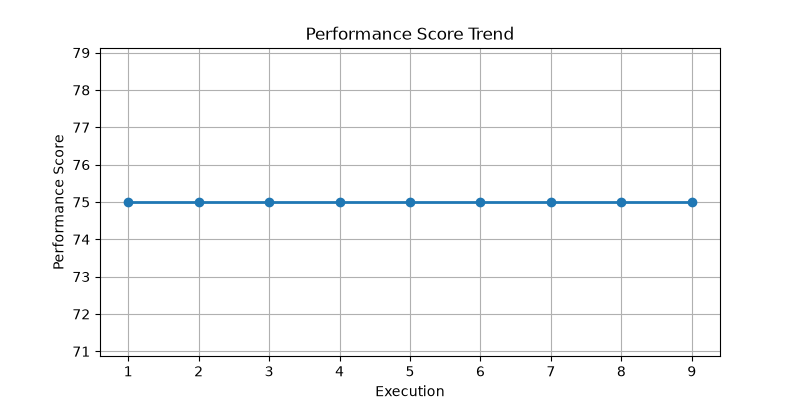
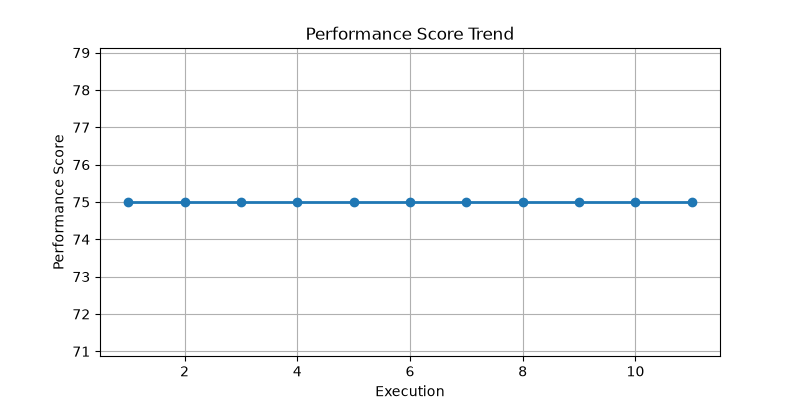
Sprint 8 - Enterprise Dashboard v2 Module das

diff --git a/reports/performance_dashboard.html b/reports/performance_dashboard.html
@@ -79,7 +79,15 @@ body {
     color:#d35400;
     font-weight:bold;
 }
+<div class="section">
 
+<h2>Deployment Decision</h2>
+
+<h3>🟠 NEEDS OPTIMIZATION</h3>
+
+<p>Performance issues should be addressed before production.</p>
+
+</div>
 .footer {
 
     text-align:center;

diff --git a/ai-engine/analyzer.py b/ai-engine/analyzer.py
@@ -14,6 +14,8 @@ from dashboard import generate_dashboard
 from history_tracker import save_execution
 from trend_analyzer import analyze_trend
 from trend_chart import generate_trend_chart
+from deployment import get_deployment_decision
+from executive_summary import generate_executive_summary
 
 
 if len(sys.argv) < 2:
@@ -35,6 +37,15 @@ score = calculate_score(metrics)
 # Assessment
 assessment = get_assessment(score)
 
+deployment_status, deployment_message = get_deployment_decision(score)
+
+executive_summary = generate_executive_summary(
+    metrics,
+    score,
+    assessment,
+    deployment_status
+)
+
 # AI Recommendations
 recommendations = get_recommendation(metrics)
 
@@ -46,6 +57,13 @@ summary = transaction_summary(df)
 
 print_transaction_summary(summary)
 
+print("\n" + "=" * 65)
+print("DEPLOYMENT DECISION")
+print("=" * 65)
+
+print(f"Status  : {deployment_status}")
+print(f"Reason  : {deployment_message}")
+
 # Generate Chart
 generate_transaction_chart(summary)
 
@@ -55,9 +73,20 @@ generate_pdf(metrics, recommendations)
 
 # Generate JSON
 export_json(metrics, score, assessment)
+print("\n" + "=" * 65)
+print("AI EXECUTIVE SUMMARY")
+print("=" * 65)
+
+print(executive_summary)
 
 # Generate HTML Dashboard
-generate_dashboard(metrics, score, assessment)
+generate_dashboard(
+    metrics,
+    score,
+    assessment,
+    deployment_status,
+    deployment_message
+)
 
 # Save Execution History
 save_execution(metrics, score)

diff --git a/ai-engine/deployment.py b/ai-engine/deployment.py
@@ -1,0 +1,25 @@
+def get_deployment_decision(score):
+
+    if score >= 90:
+        return (
+            "🟢 PRODUCTION READY",
+            "Application meets all performance targets."
+        )
+
+    elif score >= 80:
+        return (
+            "🟡 DEPLOY TO UAT",
+            "Performance is acceptable. Monitor closely."
+        )
+
+    elif score >= 70:
+        return (
+            "🟠 NEEDS OPTIMIZATION",
+            "Performance issues should be addressed before production."
+        )
+
+    else:
+        return (
+            "🔴 DO NOT DEPLOY",
+            "Critical performance issues detected."
+        )

diff --git a/ai-engine/executive_summary.py b/ai-engine/executive_summary.py
@@ -1,0 +1,23 @@
+def generate_executive_summary(metrics, score, assessment, deployment_status):
+
+    summary = f"""
+The performance test completed with {metrics['success']} successful requests out of {metrics['total']} total requests.
+
+Overall Performance Score: {score}/100.
+
+Assessment:
+{assessment}
+
+Average Response Time:
+{metrics['average']:.2f} ms
+
+P95 Response Time:
+{metrics['p95']:.2f} ms
+
+Deployment Recommendation:
+{deployment_status}
+
+Overall, the application is stable but requires optimization before production deployment.
+"""
+
+    return summary

diff --git a/ai-engine/dashboard.py b/ai-engine/dashboard.py
@@ -1,6 +1,8 @@
 import os
 
-def generate_dashboard(metrics, score, assessment):
+def generate_dashboard(metrics, score, assessment,
+                       deployment_status,
+                       deployment_message):
 
     os.makedirs("reports", exist_ok=True)
 
@@ -87,7 +89,15 @@ body {{
     color:#d35400;
     font-weight:bold;
 }}
+<div class="section">
 
+<h2>Deployment Decision</h2>
+
+<h3>{deployment_status}</h3>
+
+<p>{deployment_message}</p>
+
+</div>
 .footer {{
 
     text-align:center;

diff --git a/README.md b/README.md
@@ -1,0 +1,176 @@
+# 🚀 AI Performance Engineering Platform
+
+An Enterprise AI-powered Performance Engineering Platform built using **Python**, **JMeter**, **AI Analytics**, **HTML Dashboard**, **PDF Reporting**, **Trend Analysis**, and **CI/CD**.
+
+---
+
+# Project Overview
+
+This platform automatically analyzes JMeter test results and generates executive reports with AI-driven recommendations.
+
+It is designed to help Performance Engineers, SREs, Architects, and DevOps teams quickly identify bottlenecks and make deployment decisions.
+
+---
+
+# Architecture
+
+JMeter Test
+
+↓
+
+JTL Result
+
+↓
+
+AI Performance Analyzer
+
+↓
+
+Performance Metrics
+
+↓
+
+Performance Score
+
+↓
+
+Deployment Decision
+
+↓
+
+Executive Dashboard
+
+↓
+
+Executive PDF
+
+↓
+
+Execution History
+
+↓
+
+Trend Analysis
+
+↓
+
+Trend Chart
+
+---
+
+# Features
+
+✔ JMeter JTL Parser
+
+✔ AI Performance Metrics
+
+✔ P95 / P99 Calculation
+
+✔ Performance Score Engine
+
+✔ Executive Assessment
+
+✔ Deployment Decision Engine
+
+✔ AI Executive Summary
+
+✔ Response Time Charts
+
+✔ Performance Trend Analysis
+
+✔ Executive PDF
+
+✔ Enterprise HTML Dashboard
+
+✔ JSON Export
+
+✔ Execution History
+
+---
+
+# Technologies
+
+Python
+
+JMeter
+
+Pandas
+
+Matplotlib
+
+ReportLab
+
+HTML
+
+CSS
+
+Git
+
+GitHub
+
+Jenkins
+
+Docker
+
+Kubernetes
+
+Azure DevOps (Upcoming)
+
+Azure OpenAI (Upcoming)
+
+---
+
+# Dashboard
+
+Enterprise HTML Dashboard
+
+- Performance Score
+- Average Response Time
+- P95
+- Success Rate
+- Deployment Decision
+- AI Executive Summary
+- Trend Analysis
+- Response Time Charts
+
+---
+
+# Executive Report
+
+Automatically generates
+
+- Executive PDF
+
+- Performance Trend
+
+- AI Summary
+
+- Deployment Recommendation
+
+---
+
+# Future Roadmap
+
+Version 2.0
+
+- Azure DevOps Pipeline
+
+- Azure OpenAI Integration
+
+- Jenkins Quality Gate
+
+- Docker Image
+
+- Kubernetes Deployment
+
+- Power BI Dashboard
+
+- Microsoft Teams Notifications
+
+---
+
+# Author
+
+Ramesh Babu
+
+Performance Engineer | Performance Architect | AI Performance Engineering